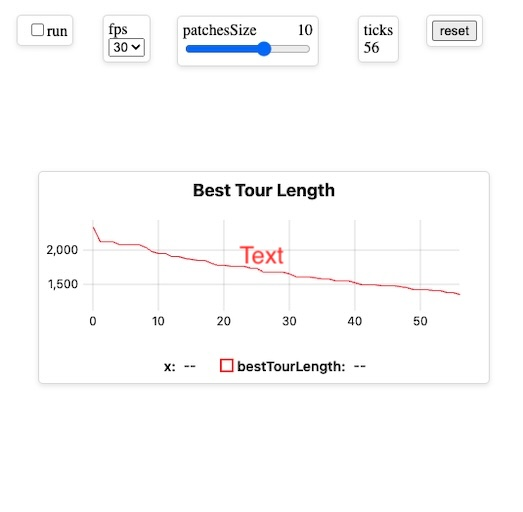
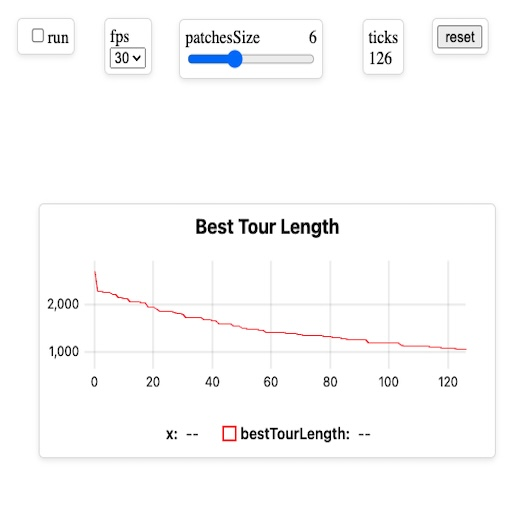
examples antselements tspelements - updated: 	- ide/examples.html 	- ide/thumbs/antselements.jpg 	- ide/thumbs/tspelements.jpg

diff --git a/ide/examples.html b/ide/examples.html
@@ -141,52 +141,68 @@
 
     <section class="center-column">
         <h1>Example Models</h1>
+
         <div class="tutorials-grid">
             <a class="tutorial-panel" href="https://glitch.com/edit/#!/agentscript-template" target=”_blank”>
                 <img class="tutorial-thumb" src="./thumbs/template.png">
                 <div class="tutorial-title">Template (Tutorial)</div>
                 <p class="tutorial-description">This is a template for starting out a new Model from scratch. It has a very simple TemplateModel that shows use of turtles and links, along with an index.html file providing a View and an Animator to run the model.</p>
             </a>
+
             <a class="tutorial-panel" href="https://glitch.com/edit/#!/agentscript-ants" target=”_blank”>
                 <img class="tutorial-thumb" src="./thumbs/ants.png">
-                <div class="tutorial-title">Ant Foraging</div>
+                <div class="tutorial-title">Ants</div>
                 <p class="tutorial-description">Ants find the shortest path to food by leaving a trail of evaporating pheromones in their environment. A classic example of stigmergic behavior.</p>
             </a>
+
+            <a class="tutorial-panel" href="https://glitch.com/edit/#!/agentscript-ants-elements" target=”_blank”>
+                <img class="tutorial-thumb" src="./thumbs/antselements.jpg">
+                <div class="tutorial-title">Ants-Elements</div>
+                <p class="tutorial-description">This uses the uielements/ controls to manipulate and view the Ants model properties.</p>
+            </a>
+
             <a class="tutorial-panel" href="https://glitch.com/edit/#!/agentscript-diffuse" target=”_blank”>
                 <img class="tutorial-thumb" src="./thumbs/diffuse.png">
                 <div class="tutorial-title">Diffusion</div>
                 <p class="tutorial-description">Diffusion is the process by which particles move from an area of higher concentration to an area of lower concentration. Here two turtles travel through patches, dropping a random value on patches and diffusing these values.</p>
             </a>
+
             <a class="tutorial-panel" href="https://glitch.com/edit/#!/agentscript-fire" target=”_blank”>
                 <img class="tutorial-thumb" src="./thumbs/fire.png">
                 <div class="tutorial-title">Fire</div>
                 <p class="tutorial-description">Fire spreading on patches based on neighbor probabilities.</p>
             </a>
+
             <a class="tutorial-panel" href="https://glitch.com/edit/#!/agentscript-flock" target=”_blank”>
                 <img class="tutorial-thumb" src="./thumbs/flock.png">
                 <div class="tutorial-title">Flocking</div>
                 <p class="tutorial-description">How do flocks form without a leader? Craig Reynolds, in 1986, found that three simple rules for individuals birds results in flocking behaviour.</p>
             </a>
+
             <a class="tutorial-panel" href="https://glitch.com/edit/#!/agentscript-slimemold" target=”_blank”>
                 <img class="tutorial-thumb" src="./thumbs/slimemold.png">
                 <div class="tutorial-title">Slime Mold</div>
                 <p class="tutorial-description">How do many single-celled organisms coordinate to form groups?</p>
             </a>
+
             <a class="tutorial-panel" href="https://glitch.com/edit/#!/agentscript-tsp" target=”_blank”>
                 <img class="tutorial-thumb" src="./thumbs/tsp.png">
                 <div class="tutorial-title">TSP</div>
                 <p class="tutorial-description">The Traveling Sales Person which computes the shortest distance touching each node in a graph.</p>
             </a>
+
+            <a class="tutorial-panel" href="https://glitch.com/edit/#!/agentscript-tsp-elements" target=”_blank”>
+                <img class="tutorial-thumb" src="./thumbs/tspelements.jpg">
+                <div class="tutorial-title">TSP-Elements</div>
+                <p class="tutorial-description">This uses the uielements/ controls to manipulate and view the TSP model properties.</p>
+            </a>
+
             <a class="tutorial-panel" href="https://glitch.com/edit/#!/agentscript-tsp-mvc" target=”_blank”>
                 <img class="tutorial-thumb" src="./thumbs/tsp-mvc.jpg">
                 <div class="tutorial-title">TSP-MVC</div>
                 <p class="tutorial-description">The Traveling Sales Person which computes the shortest distance touching each node in a graph. This version has several Controllers, the "C" in MVC.</p>
             </a>
-            <a class="tutorial-panel" href="https://glitch.com/edit/#!/agentscript-tsp-mvc" target=”_blank”>
-                <img class="tutorial-thumb" src="./thumbs/uielements2.jpg">
-                <div class="tutorial-title">Uielements</div>
-                <p class="tutorial-description">The Traveling Sales Person which computes the shortest distance touching each node in a graph. This version has several Controllers, the "C" in MVC.</p>
-            </a>
+
         </div>
     </section>
 
